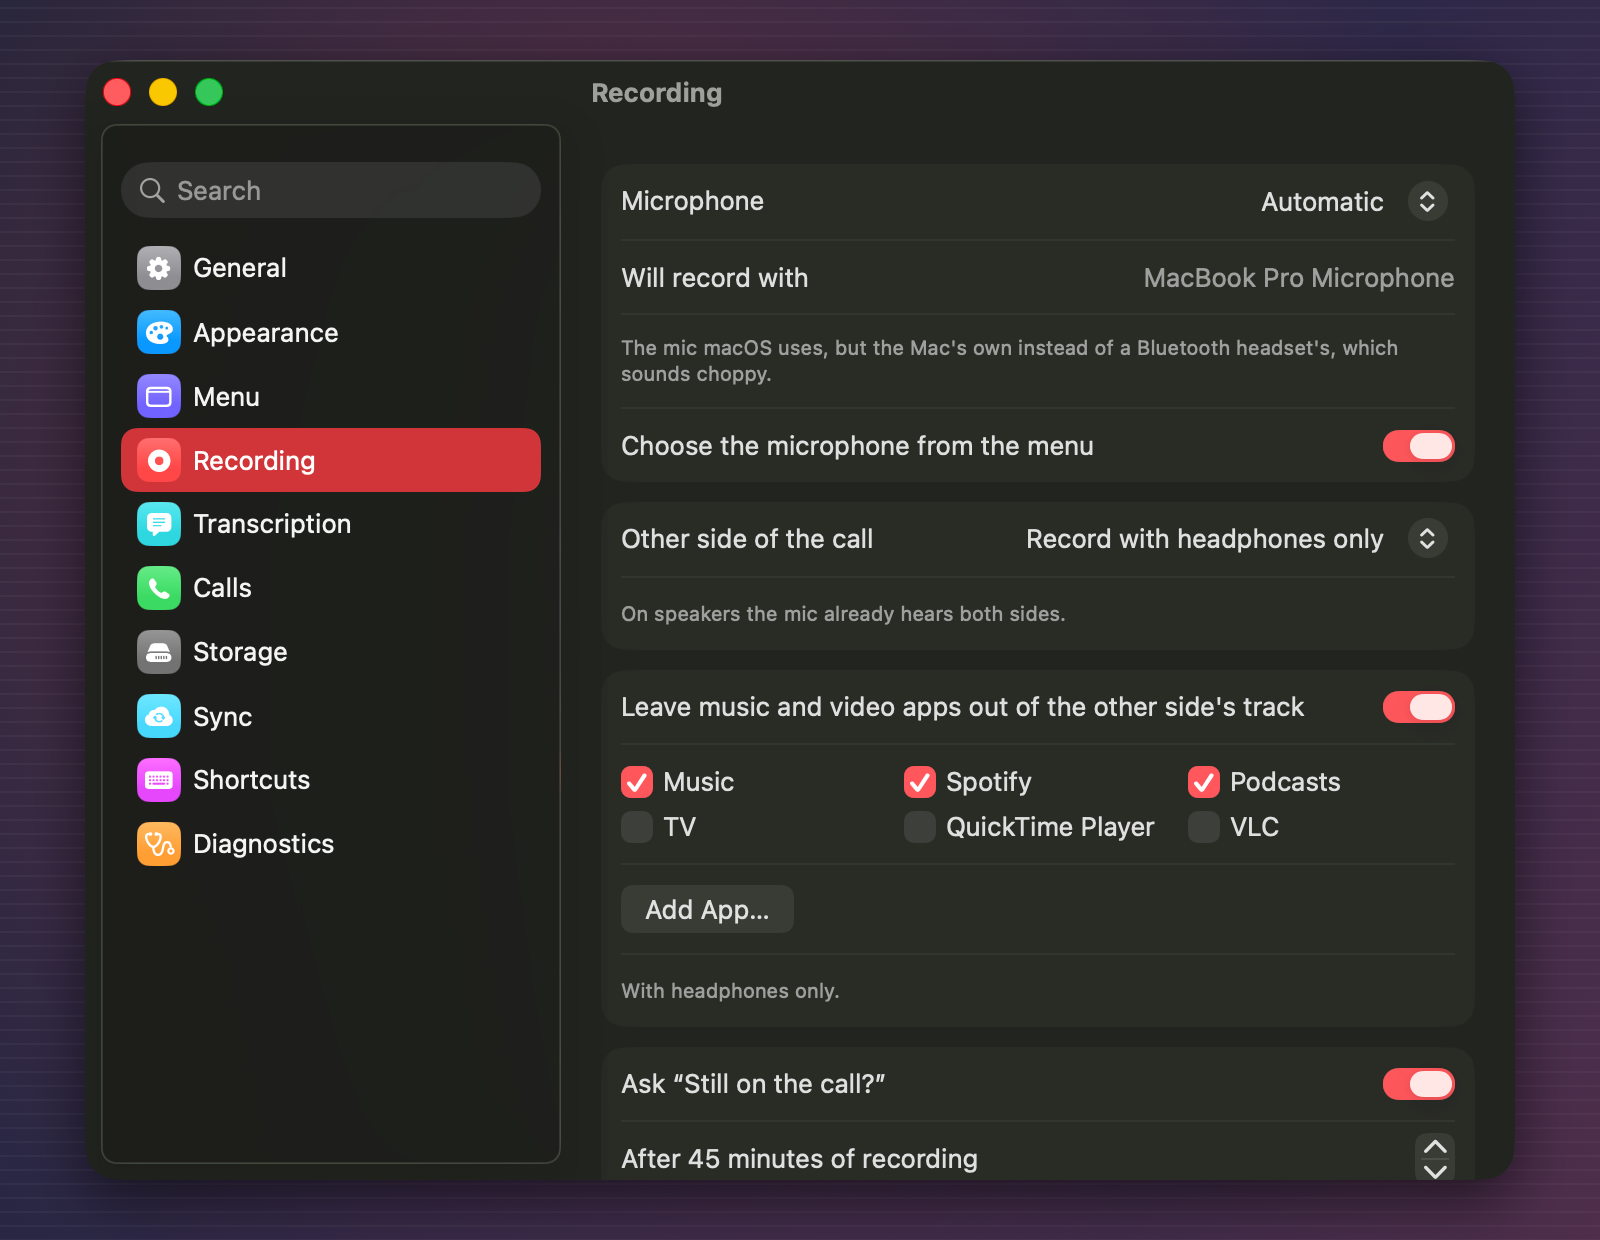
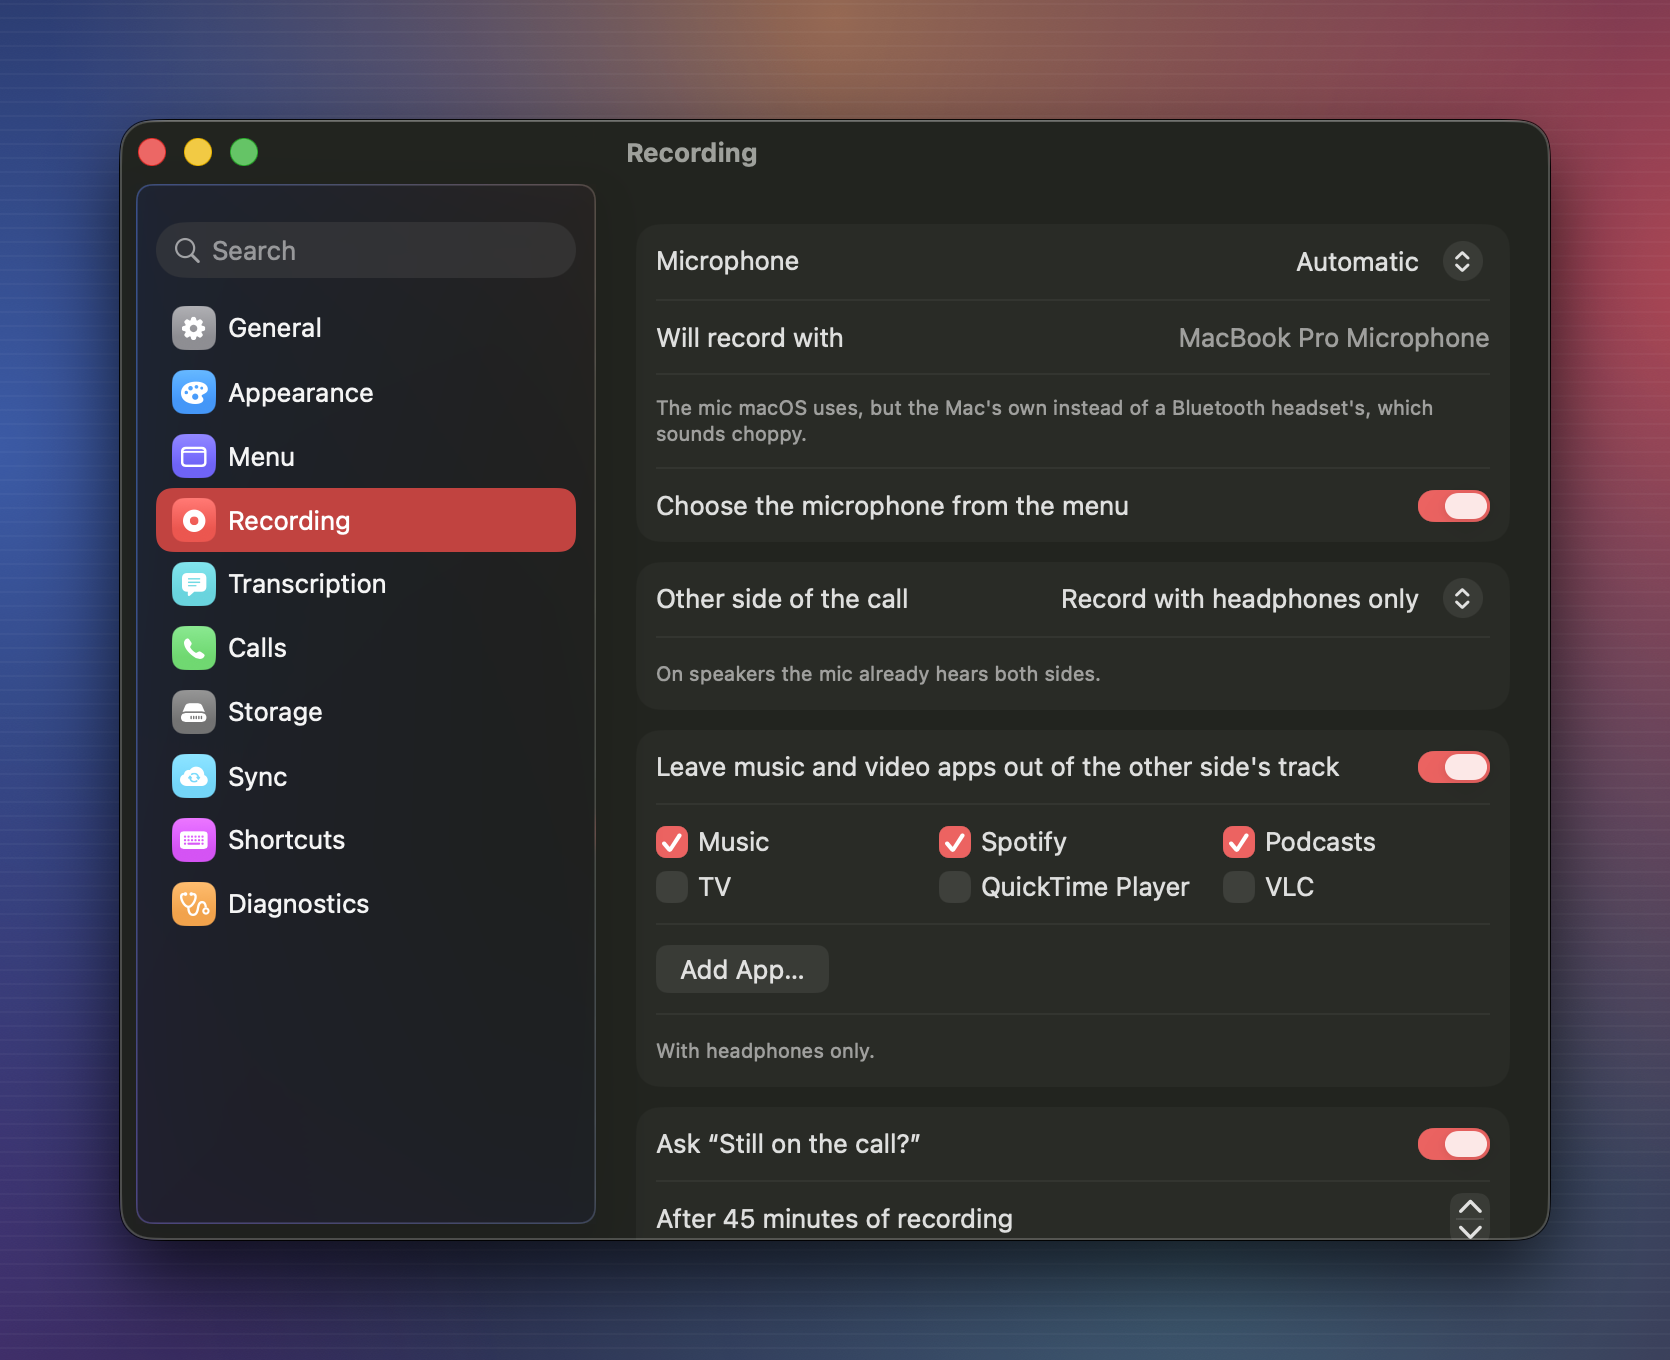
README: real Liquid Glass scenes, feature grid, shortcuts, questions

diff --git a/README.md b/README.md
@@ -5,61 +5,105 @@
 <h1 align="center">Tapedeck</h1>
 
 <p align="center">
-  A tape recorder for your calls.<br>
+  <b>A tape recorder for your calls.</b><br>
   It lives in the menu bar, records both sides and writes the transcript on your Mac.
 </p>
 
 <p align="center">
-  <a href="https://github.com/ig0ra/tapedeck/releases/latest"><b>Download the latest version</b></a><br>
-  <sub>Free. macOS 14.2 or later, Apple Silicon.</sub>
+  <a href="https://github.com/ig0ra/tapedeck/releases/latest"><img src="https://img.shields.io/github/v/release/ig0ra/tapedeck?label=download&color=e5484d" alt="Download the latest version"></a>
+  <img src="https://img.shields.io/badge/macOS-14.2%2B-555" alt="macOS 14.2 or later">
+  <img src="https://img.shields.io/badge/Apple%20Silicon-native-555" alt="Apple Silicon">
+  <img src="https://img.shields.io/badge/transcription-on%20device-555" alt="Transcription on device">
 </p>
 
 <p align="center">
-  <img src=".github/readme/hero.png" width="900" alt="The Tapedeck menu with a call being recorded on a cassette, the floating bar with the timer and reels, and the question how many people are on the call">
+  <img src=".github/readme/hero.png" width="920" alt="A video call on a Mac. Tapedeck's menu hangs from its tape icon in the menu bar, recording the call on a cassette; the floating bar at the top shows the time, and a small bar under it asks how many people are on the call">
 </p>
 
 Press <kbd>⌃</kbd><kbd>⌥</kbd><kbd>R</kbd> when the call starts and again when it ends. A few minutes later you have a transcript that says who said what, the audio, and a name from your calendar when there is one, in a folder you choose. Nothing leaves your Mac unless you turn on GitHub sync.
+
+<table>
+  <tr>
+    <td width="33%" valign="top">
+      <img src=".github/readme/icons/both.png" width="44" alt=""><br>
+      <b>Both sides of the call</b><br>
+      Your mic, and with headphones in, what your Mac plays into them.
+    </td>
+    <td width="33%" valign="top">
+      <img src=".github/readme/icons/ask.png" width="44" alt=""><br>
+      <b>Asks before it records</b><br>
+      When Zoom, Teams, Meet or another call app takes the mic.
+    </td>
+    <td width="33%" valign="top">
+      <img src=".github/readme/icons/text.png" width="44" alt=""><br>
+      <b>Transcripts on your Mac</b><br>
+      Whisper, in English, Ukrainian or Russian. Text, Markdown or PDF.
+    </td>
+  </tr>
+  <tr>
+    <td valign="top">
+      <img src=".github/readme/icons/voices.png" width="44" alt=""><br>
+      <b>Knows who spoke</b><br>
+      Separates the voices, and asks how many people there were.
+    </td>
+    <td valign="top">
+      <img src=".github/readme/icons/quiet.png" width="44" alt=""><br>
+      <b>Stays out of the way</b><br>
+      A small floating bar, notes with a shortcut, a pause button.
+    </td>
+    <td valign="top">
+      <img src=".github/readme/icons/private.png" width="44" alt=""><br>
+      <b>No account, no cloud</b><br>
+      Recording, transcription and speakers all happen on your Mac.
+    </td>
+  </tr>
+</table>
 
 ## Records both sides
 
 Your microphone is always on tape. With headphones in, Tapedeck also records what your Mac plays into them, so the other side is recorded directly rather than through your mic. On speakers your mic already hears everyone, so it leaves that part out.
 
-It records any call app. When Zoom, Teams, Slack, FaceTime, WhatsApp, Telegram, Discord, Webex or a browser (Google Meet and others) starts using the microphone, it offers to record.
+<p align="center">
+  <img src=".github/readme/bar.gif" width="432" alt="The floating bar while recording: two reels turning with the voices, the time, and buttons to discard, pause, stop, add a note and save">
+</p>
+
+While you talk, a small glass bar sits at the top of the screen. The reels turn with the voices, so you can see it hears you. Discard, pause, add a note at this moment, save: it is all there, and the bar folds down to the reels and the time when you are not pointing at it.
 
 ## Notices the call for you
 
 <p align="center">
-  <img src=".github/readme/ask.png" width="900" alt="Two small bars: Zoom is using the microphone, record this call? And: how many people are on the call, with buttons 2 to 5">
+  <img src=".github/readme/ask.png" width="920" alt="A video call has just started; a small bar at the top of the screen says Zoom is using the microphone and asks whether to record this call">
 </p>
 
-When a call app picks up the microphone, a small bar asks whether to record. A few minutes into the recording it asks how many people are on the call, so their voices can be told apart. Ignore either one and it goes away by itself.
+Tapedeck records any call app. When Zoom, Teams, Slack, FaceTime, WhatsApp, Telegram, Discord, Webex or a browser (Google Meet and others) starts using the microphone, a small bar asks whether to record. A few minutes into the recording it asks how many people are on the call, so their voices can be told apart. Ignore either one and it goes away by itself.
 
 ## Transcribes on your Mac
 
-<table>
-  <tr>
-    <td width="50%"><img src=".github/readme/transcribing.png" alt="The menu while a call is being transcribed: the transcript is done, speakers are being separated"></td>
-    <td width="50%"><img src=".github/readme/recent.png" alt="The menu with recent calls, each with its name, length and a ready transcript"></td>
-  </tr>
-</table>
+<p align="center">
+  <img src=".github/readme/transcribe.png" width="920" alt="A finished transcript next to Tapedeck's menu: each line has the time and who spoke, Me, Them 1, Them 2, Them 3; the menu shows the next call being transcribed and the recent calls">
+</p>
 
 Whisper turns the speech into text right on your Mac, in English, Ukrainian or Russian, or it detects the language for you. Then the voices are separated: with headphones you get "Me" and "Them" ("Them 1", "Them 2" when several people are on the other end), on speakers "Me", "Speaker 2", "Speaker 3". The call takes its name from your calendar or, on macOS 26 with Apple Intelligence on, from what was said. Otherwise it is named by the time.
 
 Open the transcript as plain text, Markdown or PDF, or have it waiting on the clipboard when it is ready. If the voices came out wrong, tell Tapedeck how many people there were and it splits them again in under a minute, without transcribing anything twice.
 
-## Stays out of the way
-
-A small floating bar shows the time and two reels that turn with the voices. From there you can pause, add a note at the current moment, save without transcribing, or throw the recording away. Notes also have a shortcut, <kbd>⌃</kbd><kbd>⌥</kbd><kbd>N</kbd>; the others can be turned on in Settings. Forgot to stop? After 45 minutes it asks "Still on the call?", and if nobody answers and the call has been silent for 10 minutes, it saves the recording and stops.
-
-After transcription the audio is compressed to about 14 MB an hour. After as many days as you choose (30 by default) it goes to the Trash; transcripts stay. A recording shorter than a few seconds, like a double press of the shortcut, is not kept.
-
 ## Settings
 
 <p align="center">
-  <img src=".github/readme/settings.png" width="760" alt="Tapedeck settings: microphone, the other side of the call, apps left out of the recording">
+  <img src=".github/readme/settings.png" width="760" alt="Tapedeck settings, Recording page: microphone, the other side of the call, apps left out of the other side's track">
 </p>
 
 Pick the microphone. By default Tapedeck keeps using the Mac's own mic when your AirPods connect, so they keep their full sound quality; you can follow macOS instead or stick to one mic. Leave music and video apps out of the other side's track. Change the shortcuts, the questions, and the look of the recording card: there is a cassette, a tape deck, a reel-to-reel, a dictaphone and a few more.
+
+After transcription the audio is compressed to about 14 MB an hour. After as many days as you choose (30 by default) it goes to the Trash; transcripts stay. A recording shorter than a few seconds, like a double press of the shortcut, is not kept.
+
+## Shortcuts
+
+| Shortcut | What it does |
+| --- | --- |
+| <kbd>⌃</kbd><kbd>⌥</kbd><kbd>R</kbd> | Start recording, or stop and transcribe |
+| <kbd>⌃</kbd><kbd>⌥</kbd><kbd>N</kbd> | Add a note at the current moment |
+| Your choice | Pause, save without transcribing, discard: off until you set them in Settings |
 
 ## Privacy
 
@@ -79,10 +123,36 @@ Tapedeck goes online for three things only:
 
 Tapedeck checks for a new version once a day and tells you what is new. Install it with one click, or turn on "Install updates without asking". Every update is checked against Tapedeck's signature first, and none is installed during a recording or a transcription.
 
-## Requirements
+**Requirements:** a Mac with Apple Silicon (Intel Macs are not supported), macOS 14.2 or later, about 1 GB of free space. Calendar access is optional.
 
-A Mac with Apple Silicon (Intel Macs are not supported), macOS 14.2 or later and about 1 GB of free space. Calendar access is optional.
+## Questions
 
-## Before you record
+<details>
+<summary><b>Does it work with Google Meet and other calls in the browser?</b></summary>
+<br>
+Yes. Tapedeck records the microphone and what your Mac plays, whatever app the call is in. It also offers to record when Chrome, Safari, Arc, Firefox, Edge, Brave, Opera or Vivaldi start using the microphone.
+</details>
 
+<details>
+<summary><b>Do I need headphones?</b></summary>
+<br>
+No. On speakers your microphone hears both sides, and that is what gets recorded. Headphones give a cleaner recording of the other side and a clear "Me" and "Them" in the transcript.
+</details>
+
+<details>
+<summary><b>Where do my recordings go?</b></summary>
+<br>
+Each call gets a folder in Documents → Tapedeck, named by its date and title, with the transcript and the audio. You can choose another folder in Settings.
+</details>
+
+<details>
+<summary><b>Why does macOS say it cannot check the app?</b></summary>
+<br>
+Tapedeck is signed but not notarized by Apple yet. Use <b>Open Anyway</b> in System Settings → Privacy & Security once; updates after that install without the question.
+</details>
+
+<details>
+<summary><b>Is it legal to record calls?</b></summary>
+<br>
 Laws about recording calls differ between countries. Let people know you are recording, and ask them when the law says you should.
+</details>
